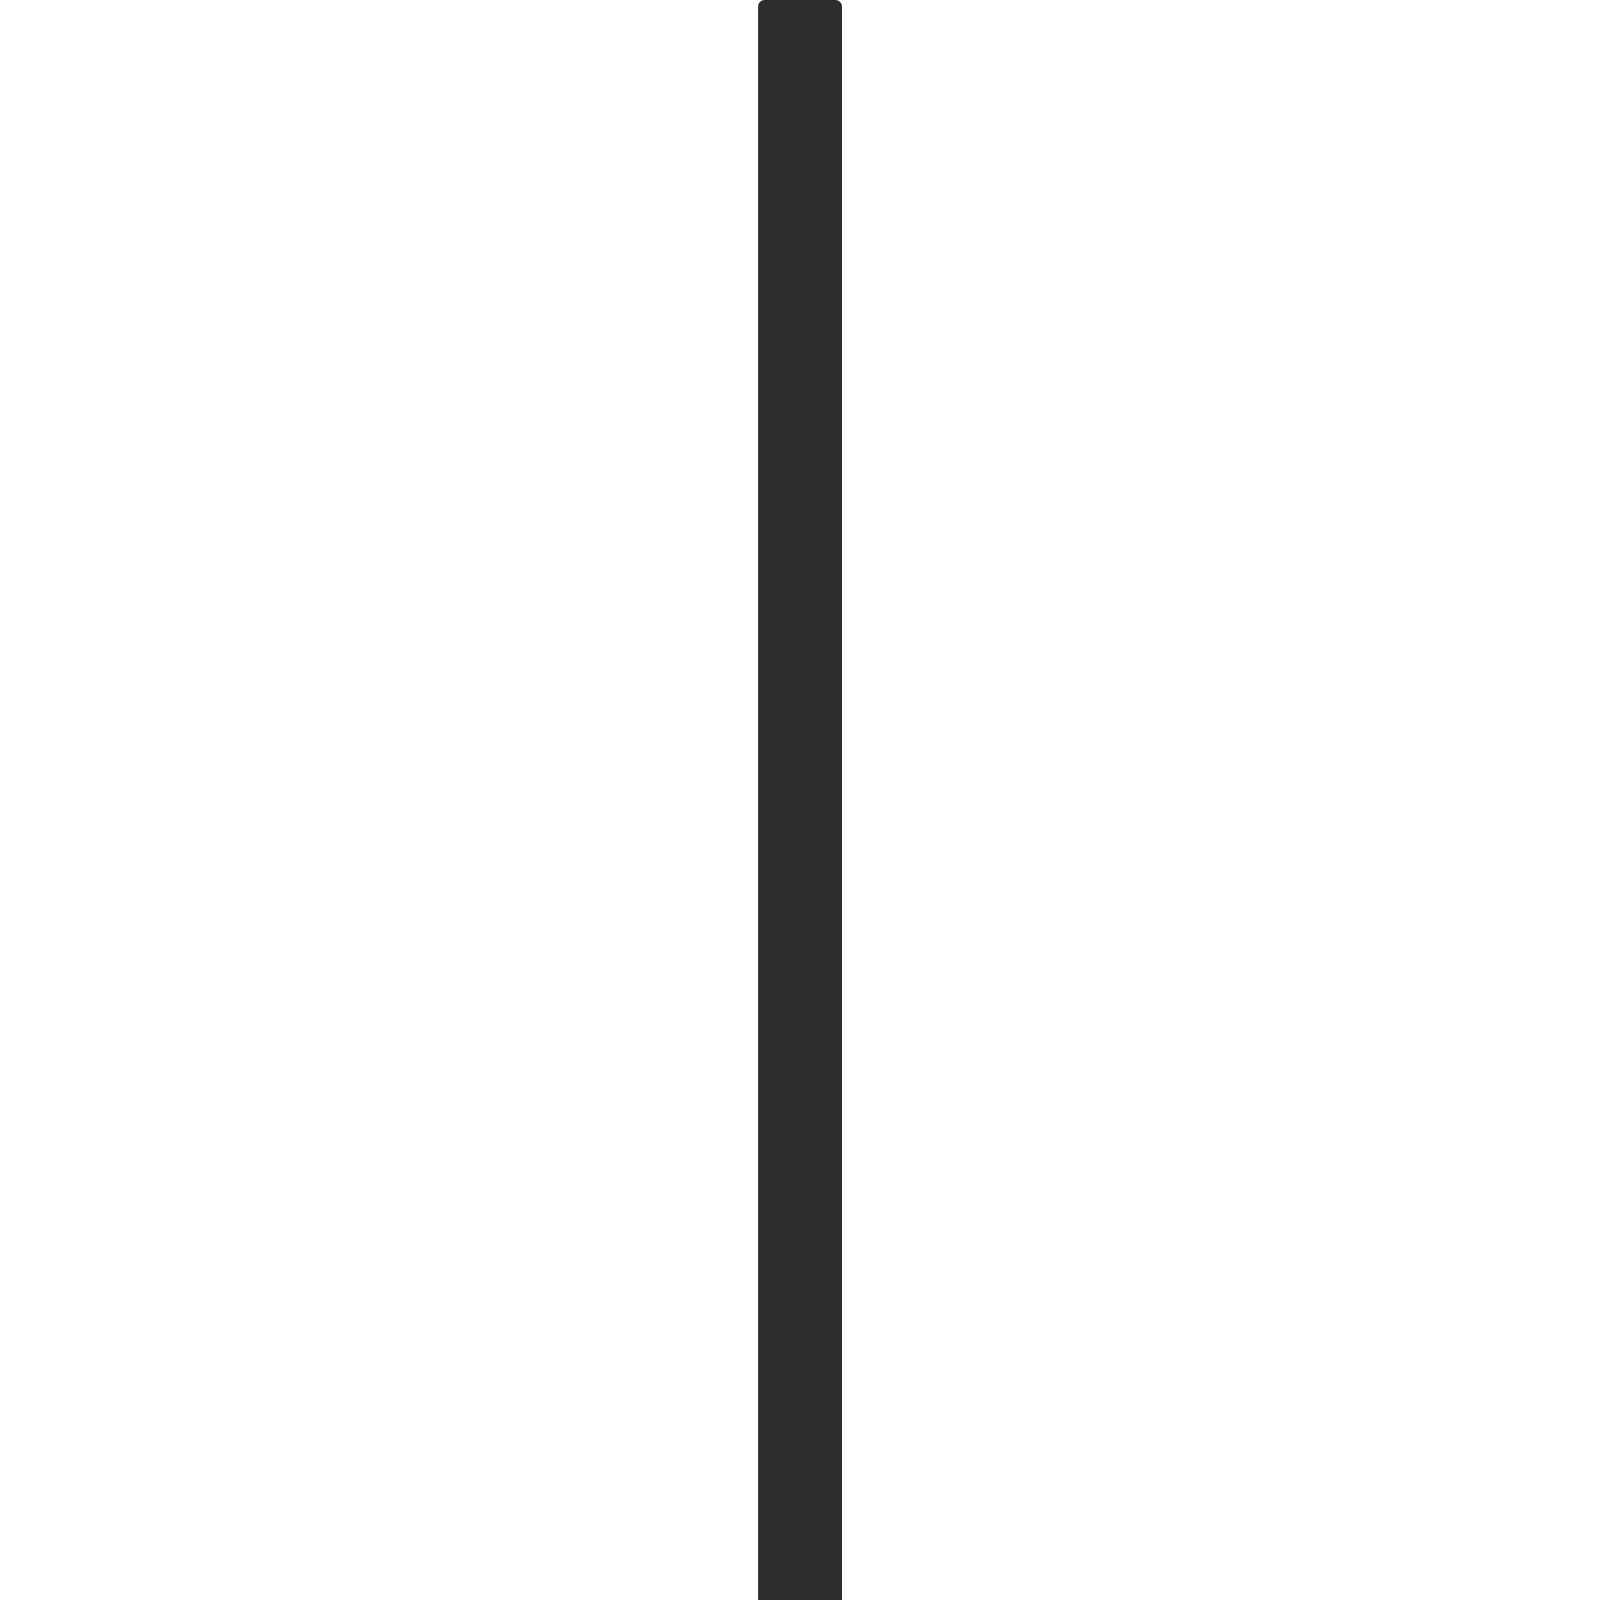
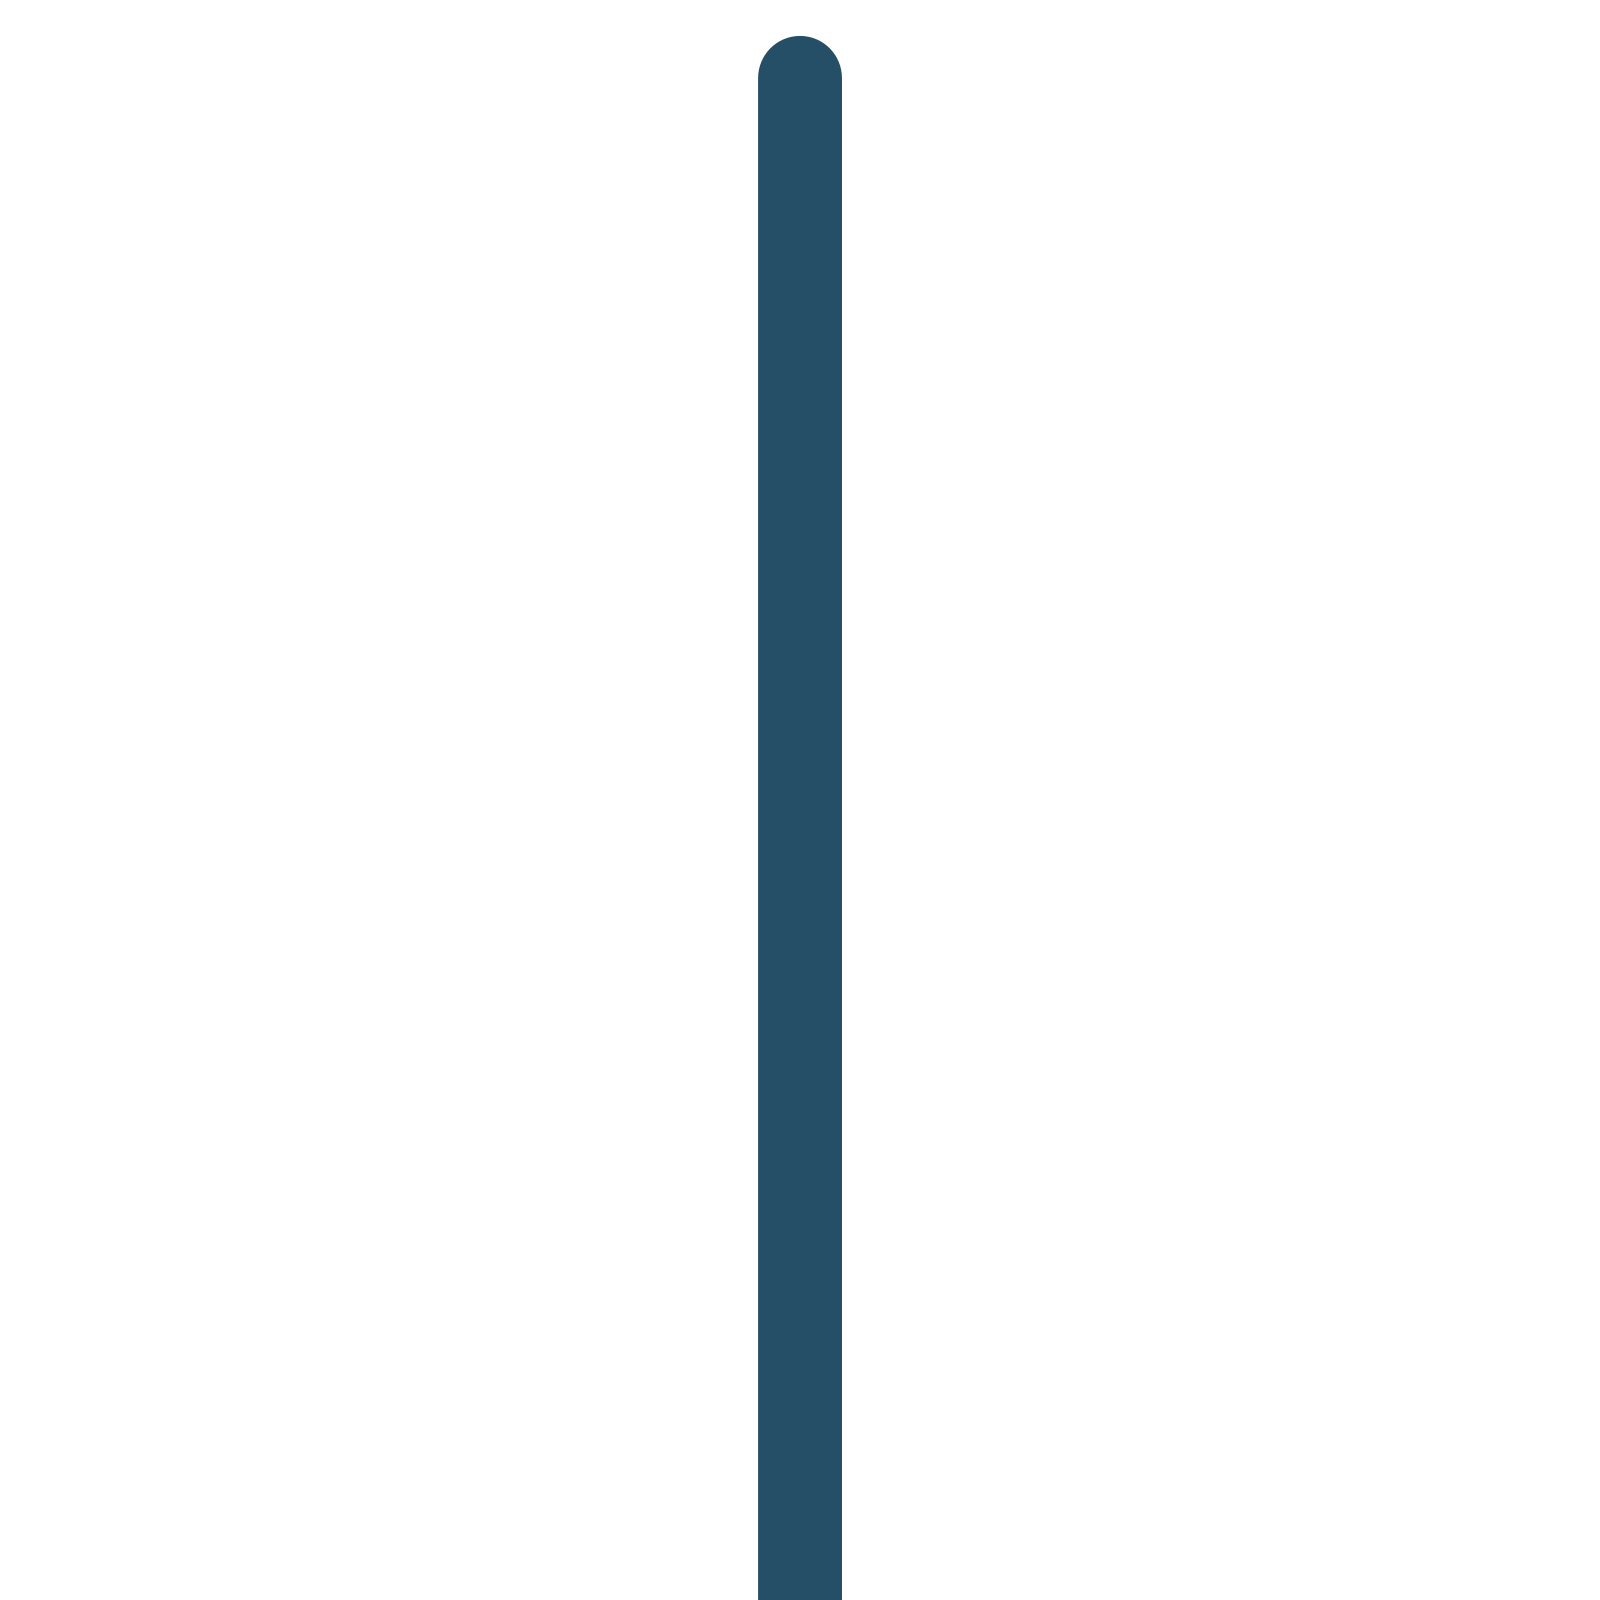
commit22_23

Changed region(s): [[0.4688, 0.0, 0.5312, 1.0]]

diff --git a/style_hanoi.css b/style_hanoi.css
@@ -63,7 +63,7 @@ body{
     justify-content: flex-start;
     align-items: center;
     background-image: url("content/tyczka.png");
-    background-size: 100% auto;
+    background-size: 100% 100%;
   }
   .stackDiv.canBeAdded{
     background-color: rgb(183, 230, 183);
@@ -171,8 +171,7 @@ a{
     background-color: rgb(241, 240, 232);
     overflow-y: scroll;
     overflow-x: auto;
-    border: 1px solid rgb(60, 107, 107); /* Ramka */
-    /* border-radius: 14px; Zaokrąglone rogi */
+    border: 1px solid rgb(60, 107, 107); 
   }
   .map-container.expanded{
     z-index: 2;
@@ -365,7 +364,7 @@ a{
 .base{
   width: 100%;
   height: 5%;
-  background-color: black;
+  background-color: rgb(37, 104, 136);
   border-radius: 5px 5px 0 0;
   z-index: 2;
 }
